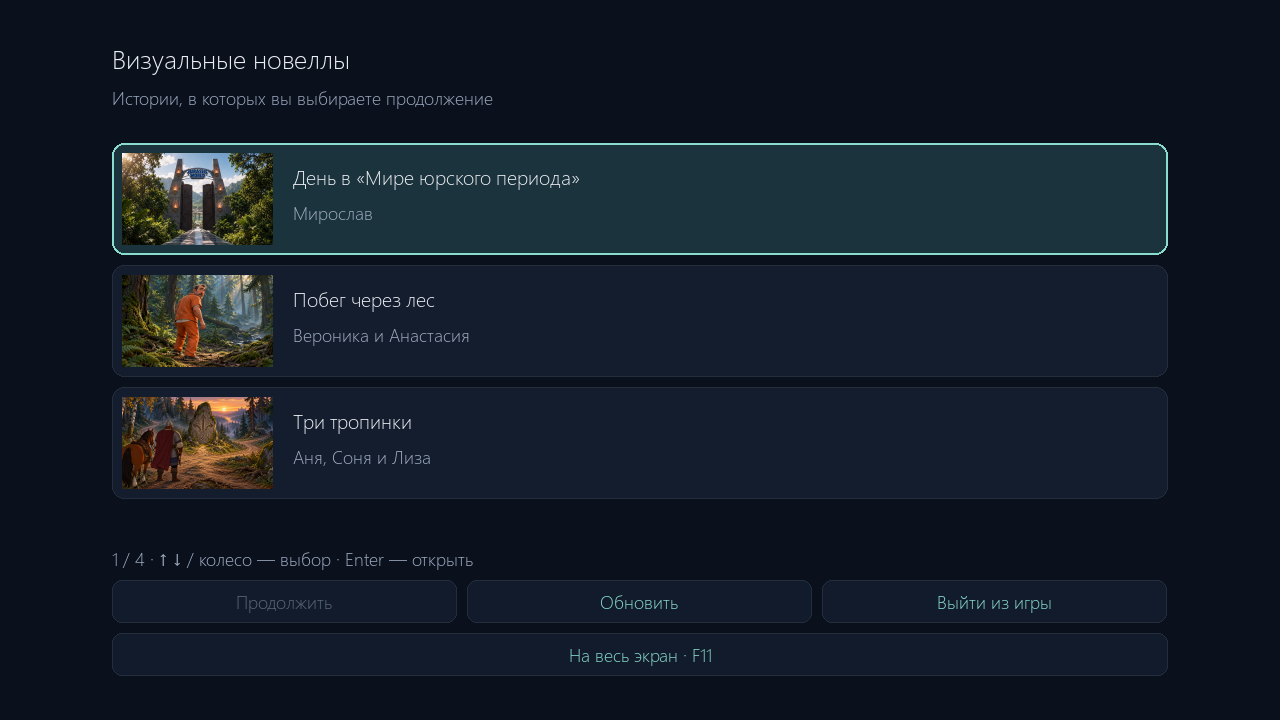
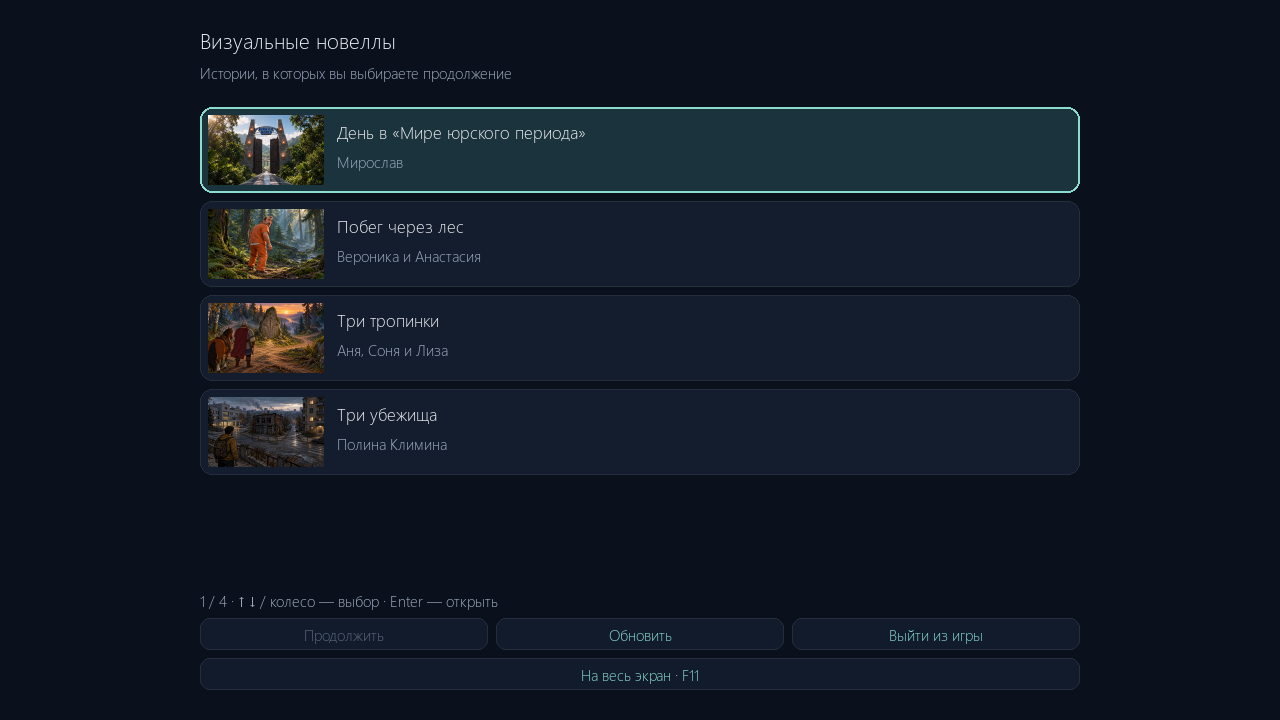
Уменьшил интерфейс и добавил сворачивание верхней панели

diff --git a/vn/app.py b/vn/app.py
@@ -50,6 +50,7 @@ class App(Library):
         self.muted = False
         self.sound = None
         self.hidden = self.history = False
+        self.toolbar_open = False
         self.running = True
         self.buttons = []
         self.font_path = pg.font.match_font("segoeui,dejavusans,arial")
@@ -95,7 +96,7 @@ class App(Library):
             raise StoryError(f"Не удалось загрузить арт {path}: {exc}") from exc
 
     def configure_layout(self):
-        self.layout = Layout(self.window.get_size())
+        self.layout = Layout(self.window.get_size(), toolbar_open=self.toolbar_open)
         self.canvas = pg.Surface(self.window.get_size())
         self.viewport = self.canvas.get_rect()
         self.font = pg.font.Font(self.font_path, self.layout.body_size)
@@ -121,7 +122,7 @@ class App(Library):
         self.page_text = text[self.page.start:self.page.end]
 
     def ensure_layout(self):
-        if self.canvas.get_size() == self.window.get_size():
+        if self.canvas.get_size() == self.window.get_size() and self.layout.toolbar_open == self.toolbar_open:
             return False
         visible = getattr(self, "visible", 0)
         self.configure_layout()
@@ -230,13 +231,16 @@ class App(Library):
         self.canvas.blit(self.background, (0, 0))
         if not self.hidden:
             l, p = self.layout, self.layout.pad
-            self.panel(l.header, 185, radius=p)
-            self.text(self.elide(self.story.title, self.label, l.title.width), l.title.topleft, self.label)
-            labels = ["Окно · F11" if self.display.fullscreen else "Экран · F11",
-                      "Назад · ←", "Журнал · Tab", "Скрыть · H",
-                      "Звук: выкл · M" if self.muted else "Звук: вкл · M", "Истории", "Выход"]
-            for rect, label, action in zip(l.toolbar, labels, ("fullscreen", "back", "history", "hide", "mute", "library", "quit")):
-                self.button(rect, label, (action,), action != "back" or len(self.session.frames) > 1)
+            self.button(l.toolbar_toggle, "Свернуть · F2" if self.toolbar_open else "Меню · F2",
+                        ("toolbar",), active=self.toolbar_open)
+            if self.toolbar_open:
+                self.panel(l.header, 185, radius=p)
+                self.text(self.elide(self.story.title, self.label, l.title.width), l.title.topleft, self.label)
+                labels = ["Окно · F11" if self.display.fullscreen else "Экран · F11",
+                          "Назад · ←", "Журнал · Tab", "Скрыть · H",
+                          "Звук: выкл · M" if self.muted else "Звук: вкл · M", "Истории", "Выход"]
+                for rect, label, action in zip(l.toolbar, labels, ("fullscreen", "back", "history", "hide", "mute", "library", "quit")):
+                    self.button(rect, label, (action,), action != "back" or len(self.session.frames) > 1)
             self.panel(l.dialogue, 218, radius=p)
             speaker = self.session.node.get("speaker", "") or "Повествование"
             self.text(self.elide(speaker, self.label, l.body.width), l.speaker, self.label, ACCENT)
@@ -272,11 +276,22 @@ class App(Library):
             height = max(self.layout.button_height, len(lines) * self.label.get_linesize() + self.layout.pad * 2)
             layout.append((i, y, height, lines))
             y += height + self.layout.gap
-        return layout, y
+        return layout, max(0, y - self.layout.gap)
+
+    def fit_choices(self):
+        # Short lists stay close to the dialogue; long lists retain a scroll viewport.
+        _, total = self.choice_layout()
+        bounds = self.layout.choice_bounds
+        height = min(bounds.height, max(1, total))
+        self.layout.choices = pg.Rect(bounds.x, bounds.bottom - height, bounds.width, height)
+        self.layout.choice_heading_y = self.layout.choices.top - self.layout.small_size * (3 if self.layout.compact else 2)
 
     def draw_choices(self):
+        self.fit_choices()
         area = self.layout.choices
         l, p = self.layout, self.layout.pad
+        self.panel((area.x - l.gap, l.choice_heading_y - l.gap // 2,
+                    area.width + l.gap * 2, area.y - l.choice_heading_y), 225, radius=l.gap)
         heading = f"ВАШ ВЫБОР · {self.focus + 1} / {len(self.session.node['choices'])}"
         self.text(heading, (area.x, l.choice_heading_y), self.small, ACCENT)
         hint = "Колесо / ↑ ↓ — выделить · Enter / ЛКМ — выбрать"
@@ -306,6 +321,7 @@ class App(Library):
             pg.draw.rect(self.canvas, ACCENT, (track.x, thumb_y, track.width, thumb_height), border_radius=2)
 
     def move_choice(self, delta, wrap_around=False):
+        self.fit_choices()
         count = len(self.session.node["choices"])
         target = self.focus + delta
         self.focus = target % count if wrap_around else max(0, min(target, count - 1))
@@ -396,7 +412,10 @@ class App(Library):
 
     def dispatch(self, action):
         kind = action[0]
-        if kind == "quit":
+        if kind == "toolbar":
+            self.toolbar_open = not self.toolbar_open
+            self.ensure_layout()
+        elif kind == "quit":
             self.stop_sound()
             self.running = False
         elif kind == "library":
@@ -461,6 +480,8 @@ class App(Library):
                     self.history = False
                 elif key in (pg.K_UP, pg.K_DOWN):
                     self.scroll += -self.history_step if key == pg.K_UP else self.history_step
+            elif key == pg.K_F2:
+                self.dispatch(("toolbar",))
             elif key == pg.K_h:
                 self.hidden = True
             elif key == pg.K_TAB:
@@ -502,6 +523,8 @@ class App(Library):
                     if rect.collidepoint(pos):
                         self.dispatch(action)
                         return
+                if self.toolbar_open and self.layout.header.collidepoint(pos):
+                    return
                 if not self.history:
                     if self.choosing:
                         self.dispatch(("choose", self.focus))

diff --git a/vn/layout.py b/vn/layout.py
@@ -3,26 +3,29 @@ import pygame as pg
 
 
 class Layout:
-    def __init__(self, size):
+    def __init__(self, size, toolbar_open=True):
+        self.toolbar_open = toolbar_open
         self.width, self.height = size
         w, h = size
         # A typographic unit derived from the device's shorter side.
-        self.unit = max(7, min(w, h) / 45)
+        self.unit = max(8, min(24, min(w, h) / 54))
         u = self.unit
-        self.pad = max(6, round(u * 1.25))
+        self.pad = max(6, round(u * .95))
         p = self.pad
-        self.body_size = max(12, round(u * 1.62))
-        self.label_size = max(11, round(u * 1.25))
-        self.small_size = max(10, round(u * 1.12))
-        self.button_height = round(u * 2.7)
+        self.body_size = max(16, round(u * 1.55))
+        self.label_size = max(12, round(u * 1.25))
+        self.small_size = max(11, round(u * 1.12))
+        self.button_height = max(28, round(u * 2.4))
         self.gap = max(4, round(u * .6))
-        self.compact = w / u < 108
-        self.columns = 3 if w / u < 48 else 4 if self.compact else 7
+        self.compact = w / u < 92
+        self.columns = 3 if w / u < 60 else 4 if self.compact else 7
         rows = (7 + self.columns - 1) // self.columns
         header_height = self.button_height + p
         if self.compact:
             header_height = self.label_size + p * 2 + rows * (self.button_height + self.gap)
-        self.header = pg.Rect(p, p, w - 2 * p, header_height)
+        self.toolbar_toggle = pg.Rect(w - p - max(84, round(u * 8)), p,
+                                      max(84, round(u * 8)), self.button_height)
+        self.header = pg.Rect(p, self.toolbar_toggle.bottom + self.gap, w - 2 * p, header_height)
         self.title = pg.Rect(self.header.x + p, self.header.y + p // 2,
                              self.header.width - 2 * p, self.label_size * 2)
         if self.compact:
@@ -37,17 +40,23 @@ class Layout:
         self.toolbar = [pg.Rect(button_x + (i % self.columns) * (button_width + self.gap),
                                button_y + (i // self.columns) * (self.button_height + self.gap),
                                button_width, self.button_height) for i in range(7)]
-        self.dialogue = pg.Rect(2 * p, h - p - round(h * .36), w - 4 * p, round(h * .36))
+        dialogue_height = max(116, min(round(h * .24), round(u * 12)))
+        dialogue_width = min(w - 4 * p, round(u * 86))
+        self.dialogue = pg.Rect((w - dialogue_width) // 2, h - p - dialogue_height,
+                                dialogue_width, dialogue_height)
         self.speaker = (self.dialogue.x + p, self.dialogue.y + p)
         self.body = pg.Rect(self.dialogue.x + p, self.dialogue.y + p + self.label_size * 2,
                             self.dialogue.width - 2 * p,
                             self.dialogue.height - 2 * p - self.label_size * 2 - self.small_size * 2)
         self.footer_y = self.dialogue.bottom - p - self.small_size
-        self.choice_heading_y = self.header.bottom + p
+        self.choice_heading_y = (self.header.bottom if toolbar_open else self.toolbar_toggle.bottom) + p
         top = self.choice_heading_y + self.small_size * (3 if self.compact else 2)
-        self.choices = pg.Rect(3 * p, top, w - 6 * p, max(1, self.dialogue.top - p - top))
+        choice_width = min(self.dialogue.width, round(u * 60))
+        self.choices = pg.Rect((w - choice_width) // 2, top, choice_width, max(1, self.dialogue.top - p - top))
+        self.choice_bounds = self.choices.copy()
         end_width = min(self.choices.width, round(u * 50))
-        self.ending = pg.Rect((w - end_width) // 2, self.choices.y, end_width, self.choices.height)
+        end_height = min(self.choices.height, round(u * 12))
+        self.ending = pg.Rect((w - end_width) // 2, self.choices.bottom - end_height, end_width, end_height)
         self.history = pg.Rect(2 * p, 2 * p, w - 4 * p, h - 4 * p)
         self.history_close = pg.Rect(self.history.right - round(u * 10) - p, self.history.y + p,
                                      round(u * 10), self.button_height)

diff --git a/tests/test_engine.py b/tests/test_engine.py
@@ -130,7 +130,7 @@ class UITests(unittest.TestCase):
         self.assertEqual(self.app.session.current.node, "path")
 
     def test_wheel_scrolls_and_scaled_click_selects_last_option(self):
-        self.show_choices(15)
+        self.show_choices(30)
         app, pg = self.app, self.pg
         for size in ((800, 600), (1920, 1080), (2560, 1080), (720, 1280)):
             app.window = pg.display.set_mode(size, pg.RESIZABLE)
@@ -138,9 +138,9 @@ class UITests(unittest.TestCase):
             self.finish_node()
             app.render()
             self.wheel(-100)
-            self.assertEqual(app.focus, 14)
+            self.assertEqual(app.focus, 29)
             self.assertGreater(app.choice_scroll, 0)
-            rect = next(rect for rect, action in app.buttons if action == ("choose", 14))
+            rect = next(rect for rect, action in app.buttons if action == ("choose", 29))
             self.assertEqual(rect.height, app.choice_layout()[0][-1][2])
             # Verify actual inverse mapping through the input dispatcher.
             point = rect.center
@@ -306,9 +306,54 @@ class UITests(unittest.TestCase):
             app.update(0.1)
         self.assertEqual(app.sound.play.call_count, 3)
 
+    def test_toolbar_toggle_preserves_reading_and_blocks_panel_clicks(self):
+        app, pg = self.app, self.pg
+        self.assertFalse(app.toolbar_open)
+        self.assertEqual([action for _, action in app.buttons], [("toolbar",)])
+        app.visible = 7
+        frames = app.session.frames.copy()
+        for size in ((640, 480), (1280, 720), (1920, 1080), (1080, 1920)):
+            app.window = pg.display.set_mode(size, pg.RESIZABLE)
+            app.render()
+            self.assertLessEqual(app.layout.dialogue.height, size[1] * .25)
+            self.assertGreaterEqual(app.layout.body_size, 16)
+            toggle = app.layout.toolbar_toggle.center
+            app.event(pg.event.Event(pg.MOUSEBUTTONDOWN, button=1, pos=toggle))
+            app.render()
+            self.assertTrue(app.toolbar_open)
+            self.assertIn(("quit",), [action for _, action in app.buttons])
+            self.assertTrue(all(app.viewport.contains(rect) for rect, _ in app.buttons))
+            # The title/gap of the open panel isn't a story click target.
+            app.event(pg.event.Event(pg.MOUSEBUTTONDOWN, button=1, pos=(app.layout.header.x + 2, app.layout.header.y + 2)))
+            self.assertEqual(app.visible, 7)
+            self.key(pg.K_F2)
+            self.assertFalse(app.toolbar_open)
+            self.assertEqual(app.session.frames, frames)
+            self.assertEqual(app.visible, 7)
+
+    def test_toolbar_at_choice_does_not_choose_and_modal_blocks_toggle(self):
+        app, pg = self.app, self.pg
+        self.show_choices()
+        self.wheel(-1)
+        frames = app.session.frames.copy()
+        for _ in range(2):
+            app.event(pg.event.Event(pg.MOUSEBUTTONDOWN, button=1, pos=app.layout.toolbar_toggle.center))
+            app.render()
+            self.assertEqual(app.focus, 1)
+            self.assertEqual(app.session.frames, frames)
+        self.key(pg.K_TAB)
+        self.assertNotIn(("toolbar",), [action for _, action in app.buttons])
+        self.key(pg.K_F2)
+        self.assertFalse(app.toolbar_open)
+        self.key(pg.K_TAB)
+        # Existing free-area LMB still confirms the wheel-highlighted choice.
+        app.event(pg.event.Event(pg.MOUSEBUTTONDOWN, button=1, pos=(1, app.viewport.centery)))
+        self.assertEqual(app.session.current.node, "path")
+
     def test_native_layout_and_hitboxes_at_different_aspect_ratios(self):
         app, pg = self.app, self.pg
         font_sizes = {}
+        app.dispatch(("toolbar",))
         for size in ((640, 480), (1280, 720), (1920, 1080), (2560, 1440), (3440, 1440), (1080, 1920)):
             app.window = pg.display.set_mode(size, pg.RESIZABLE)
             app.render()

diff --git a/tests/test_library.py b/tests/test_library.py
@@ -64,6 +64,7 @@ class LibraryTests(unittest.TestCase):
         self.assertFalse(app.in_menu)
         app.visible = 7
         session = app.session
+        self.click(app, ("toolbar",))
         self.click(app, ("library",))
         app.update(0.1)
         self.assertEqual(app.visible, 7)

diff --git a/README.md b/README.md
@@ -4,6 +4,8 @@
 
 ![Экран выбора истории](docs/library.png)
 
+![Компактный игровой интерфейс](docs/reading.png)
+
 ## Готовые истории
 
 | История | Авторы | Сцены | Финалы |
@@ -27,7 +29,7 @@ py -3.12 -m venv .venv
 
 В Linux/macOS создайте окружение через `python3 -m venv .venv`, установите зависимости и запускайте `.venv/bin/python main.py`. Проверки CI выполняются в Linux; интерактивная работа на macOS отдельно не проверялась.
 
-Без аргументов открывается библиотека с обложками. Историю можно открыть мышью или выбрать стрелками / колесом и нажать Enter. Кнопка «Истории» возвращает в библиотеку, «Продолжить» восстанавливает текущее прохождение. Открытие другой истории начинает её заново. Сохранений после закрытия программы нет.
+Без аргументов открывается библиотека с обложками. Историю можно открыть мышью или выбрать стрелками / колесом и нажать Enter. В игре небольшая кнопка «Меню» справа сверху (или F2) раскрывает верхнюю панель. По умолчанию она свёрнута, чтобы оставлять арт открытым. Кнопка «Истории» в этой панели возвращает в библиотеку, «Продолжить» восстанавливает текущее прохождение. Открытие другой истории начинает её заново. Сохранений после закрытия программы нет.
 
 Если в `stories` нет подходящих пакетов, появляется «Пока нет доступных историй». Кнопка «Обновить» перечитывает папку. Пакеты с ошибками JSON или отсутствующими ресурсами пропускаются с сообщением в терминале; ошибка декодирования арта при открытии оставляет игрока в библиотеке.
 
@@ -66,7 +68,8 @@ py -3.12 -m venv .venv
 | Полностью скрыть интерфейс | H, ПКМ или кнопка «Скрыть»; Escape в оконном режиме |
 | Вернуть интерфейс | H, ПКМ, ЛКМ или пробел; Escape в оконном режиме |
 | Включить / выключить звук | M или кнопка звука |
-| Открыть библиотеку | Кнопка «Истории» |
+| Свернуть / раскрыть верхнюю панель | Небольшая кнопка «Меню» справа сверху или F2 |
+| Открыть библиотеку | «Меню» → «Истории» |
 | Закрыть программу | Кнопка «Выход» / «Выйти из игры», крестик окна или Alt+F4 |
 
 Первое нажатие во время печати только раскрывает текущую страницу. При показе арта печать приостанавливается; нажатие для возврата интерфейса не продвигает сюжет. Пробел не выбирает ветку случайно. Журнал блокирует взаимодействие со сценой под ним.
@@ -157,7 +160,7 @@ stories/my_novel/
 
 Рабочая поверхность всегда имеет фактическую ширину и высоту окна: при fullscreen на мониторе 2560×1440 это поверхность 2560×1440. Фиксированного разрешения сцены и масштабирования готового интерфейса нет. Шрифты сразу растеризуются в нужном размере, а панели и области кликов рассчитываются в пикселях текущего окна.
 
-`Layout` получает размер от Pygame, вычисляет типографическую единицу из короткой стороны и размещает панели относительно краёв. Нижняя панель занимает 36% высоты; количество строк определяется её внутренней высотой и метриками шрифта. В узком окне название переносится над кнопками, а сами кнопки при необходимости располагаются в несколько рядов. Список выбора и журнал используют всю доступную им область. После resize/fullscreen компоновка и области кликов обновляются перед обработкой следующего ввода.
+`Layout` получает размер от Pygame, вычисляет типографическую единицу из короткой стороны и размещает панели относительно краёв. Нижняя панель занимает примерно 20–24% высоты в обычном окне (на маленьких экранах сохраняется минимум для читаемого текста); количество строк определяется её внутренней высотой и метриками шрифта. В узком окне название переносится над кнопками, а сами кнопки при необходимости располагаются в несколько рядов. Короткий список вариантов расположен над текстом и занимает только необходимую высоту; длинный список прокручивается. Панели вариантов и финала ограничены по ширине, чтобы меньше перекрывать арт. Журнал использует доступную область окна. После resize/fullscreen компоновка и области кликов обновляются перед обработкой следующего ввода.
 
 Интерфейс заполняет экран с любым соотношением сторон без служебных чёрных полей. Только фоновый арт масштабируется с сохранением пропорций до заполнения окна, поэтому его края могут обрезаться. Размер рабочего стола определяется через [Pygame display.get_desktop_sizes](https://www.pygame.org/docs/ref/display.html#pygame.display.get_desktop_sizes). Текстовая панель рисуется через `SRCALPHA`; кешируются до восьми исходных изображений. Звук реализован через [Pygame mixer.Sound](https://www.pygame.org/docs/ref/mixer.html); для своих звуков используйте короткие семплы.
 
